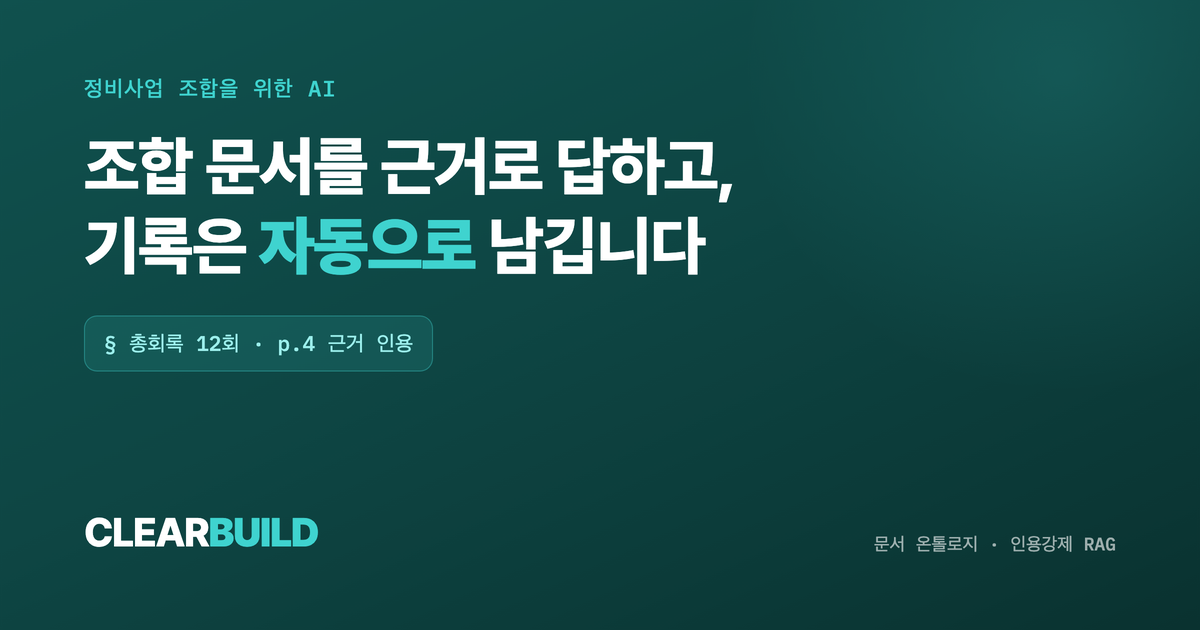
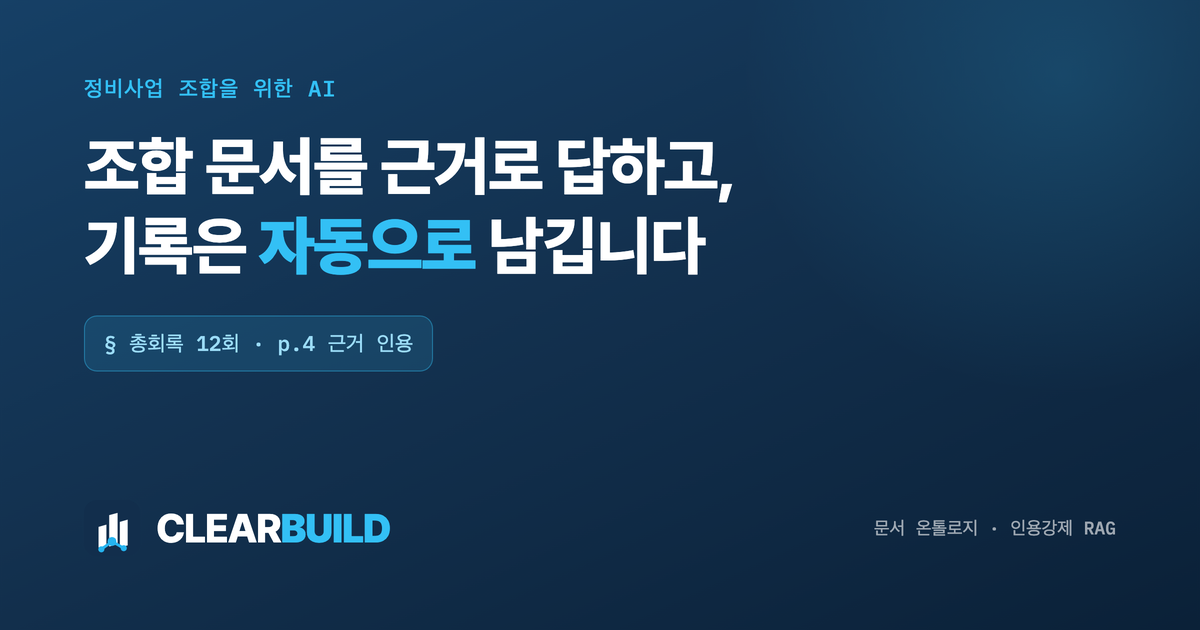
fix: Fable UI 리뷰 반영 — 틸 잔재 제거 + 로고 마크 + og-image 재생성
- og-image 네이비+시안+새 빌딩마크로 재생성(구 틸 브랜드 폐기·공유링크 노출 해소)
- 틸 잔재: rgba(63,211,207)→시안 · 파란버튼 초록그림자→블루 · 다크버튼 글자 #062522→네이비 · apply aside 틸→네이비
- 로고 마크: 크기 1.15→1.4em · 다크패널 고스트타일 · 다크테마 대응

diff --git a/index.html b/index.html
@@ -72,7 +72,7 @@
   .btn-lg{font-family:inherit; font-size:16px; font-weight:700; border-radius:var(--r-md); padding:15px 28px; white-space:nowrap; transition:.16s ease; cursor:pointer; border:1px solid transparent}
   .btn-solid{background:var(--teal); color:#fff}
   .btn-solid:hover{background:var(--teal-deep); transform:translateY(-1px)}
-  :root[data-theme="dark"] .btn-solid,:root:not([data-theme="light"]) .btn-solid{color:#062522}
+  :root[data-theme="dark"] .btn-solid,:root:not([data-theme="light"]) .btn-solid{color:#0B2138}
   .btn-white{background:#fff; color:var(--d-b)}
   .btn-white:hover{transform:translateY(-1px)}
   .btn-ghost-d{color:#fff; border:1px solid var(--d-line)}
@@ -104,7 +104,7 @@
   .pnav .r{margin-left:auto; display:flex; gap:12px; align-items:center}
   .hcopy{position:relative; max-width:820px; margin:60px auto 0; text-align:center}
   .hbadge{display:inline-block; font-family:'IBM Plex Mono',monospace; font-size:12px; letter-spacing:.06em; text-transform:uppercase;
-    color:var(--d-accent); border:1px solid rgba(63,211,207,.4); border-radius:999px; padding:7px 16px}
+    color:var(--d-accent); border:1px solid rgba(51,192,245,.4); border-radius:999px; padding:7px 16px}
   h1{margin:24px 0 0; font-size:clamp(30px,8.5vw,62px); line-height:1.16; letter-spacing:-.025em; font-weight:800; color:#fff; text-wrap:balance}
   h1 span{color:var(--d-accent)}
   .hsub{margin:22px auto 0; max-width:33em; font-size:18px; line-height:1.62; color:var(--d-mut)}
@@ -129,7 +129,7 @@
   .thread{display:flex; flex-direction:column; gap:14px}
   .msg{max-width:86%; font-size:15px; line-height:1.55; padding:12px 16px; border-radius:var(--r-md)}
   .msg.q{align-self:flex-end; background:var(--teal); color:#fff; font-weight:500; border-bottom-right-radius:4px}
-  :root[data-theme="dark"] .msg.q,:root:not([data-theme="light"]) .msg.q{color:#062522}
+  :root[data-theme="dark"] .msg.q,:root:not([data-theme="light"]) .msg.q{color:#0B2138}
   .msg.a{align-self:flex-start; background:var(--surface-2); border:1px solid var(--line); border-bottom-left-radius:4px}
   .msg.a .who{display:block; font-family:'IBM Plex Mono',monospace; font-size:11px; color:var(--teal-deep); margin-bottom:6px; letter-spacing:.04em}
   .cites{display:flex; flex-wrap:wrap; gap:8px; margin-top:12px; padding-top:12px; border-top:1px dashed var(--line2)}
@@ -179,7 +179,7 @@
   .imsg.q{align-self:flex-end; margin-left:auto; width:fit-content; background:var(--d-accent); color:var(--d-b); font-weight:600; border-bottom-right-radius:4px}
   .imsg.a{background:rgba(255,255,255,.07); border:1px solid var(--d-line); margin-top:11px; border-bottom-left-radius:4px}
   .imsg.a .who{display:block; font-family:'IBM Plex Mono',monospace; font-size:11px; color:var(--d-accent); margin-bottom:5px}
-  .icite{font-family:'IBM Plex Mono',monospace; font-size:11px; color:var(--d-accent); background:rgba(63,211,207,.12); border-radius:var(--r-xs); padding:3px 8px; margin-top:10px; display:inline-block}
+  .icite{font-family:'IBM Plex Mono',monospace; font-size:11px; color:var(--d-accent); background:rgba(51,192,245,.12); border-radius:var(--r-xs); padding:3px 8px; margin-top:10px; display:inline-block}
   .exec .row{display:flex; align-items:center; gap:12px; padding:13px 0; border-bottom:1px solid var(--d-line)}
   .exec .row:last-child{border-bottom:none}
   .exec .k{font-size:14px; color:var(--d-mut)}
@@ -371,7 +371,7 @@
   .cr-chat{display:flex; flex-direction:column; gap:6px; height:86px; justify-content:center}
   .cr-chat .bub{max-width:80%; font-size:11px; line-height:1.4; padding:6px 9px; border-radius:11px; font-weight:500}
   .cr-chat .me{align-self:flex-end; background:var(--teal); color:#fff; border-bottom-right-radius:3px}
-  :root[data-theme="dark"] .cr-chat .me,:root:not([data-theme="light"]) .cr-chat .me{color:#062522}
+  :root[data-theme="dark"] .cr-chat .me,:root:not([data-theme="light"]) .cr-chat .me{color:#0B2138}
   .cr-chat .ai{align-self:flex-start; background:var(--surface); border:1px solid var(--line); color:var(--soft); border-bottom-left-radius:3px}
   .cr-chat .cchip{display:inline-flex; align-items:center; gap:3px; margin-top:5px; font-family:'IBM Plex Mono',monospace; font-size:8.5px; color:var(--teal-deep); background:var(--teal-soft); border-radius:5px; padding:2px 5px; font-weight:600}
   /* 3. 기록·증적 */
@@ -415,8 +415,10 @@
   @keyframes fadein{from{opacity:0}to{opacity:1}}
   @keyframes popPeek{0%{opacity:0; visibility:hidden; transform:translateY(4px)}14%,55%{opacity:1; visibility:visible; transform:none}72%,100%{opacity:0; visibility:hidden; transform:translateY(4px)}}
   .logo,.brand{display:inline-flex; align-items:center; gap:9px}
-  .lm{flex:none; width:1.15em; height:1.15em}
+  .lm{flex:none; width:1.4em; height:1.4em}
   .lm-bg{fill:#122E4C}
+  .pnav .lm-bg,.brand .lm-bg{fill:rgba(255,255,255,.15)}
+  :root[data-theme="dark"] .lm-bg,:root:not([data-theme="light"]) .lm-bg{fill:#1B3E63}
 </style>
 </head>
 <body>

diff --git a/apply.html b/apply.html
@@ -34,7 +34,7 @@
     --shadow:0 1px 2px rgba(0,0,0,.4);
   }}
   :root[data-theme="dark"]{
-    --bg:#0C121A; --surface:#141C26; --surface-2:#1C2634; --ink:#EAF0F7; --soft:#C0CAD6; --muted:#8792A3; --faint:#5E6B65;
+    --bg:#0C121A; --surface:#141C26; --surface-2:#1C2634; --ink:#EAF0F7; --soft:#C0CAD6; --muted:#8792A3; --faint:#5D6A7A;
     --teal:#25B4F0; --teal-deep:#6FBEF2; --teal-soft:rgba(37,180,240,.13); --line:rgba(234,240,247,.12); --line2:rgba(234,240,247,.2); --err:#E0865A;
     --shadow:0 2px 4px rgba(0,0,0,.3), 0 30px 60px -34px rgba(0,0,0,.72);
   }
@@ -50,9 +50,9 @@
 
   /* left reassurance panel (deep teal) */
   .aside{position:relative; overflow:hidden; padding:40px 36px; color:var(--d-ink);
-    background:radial-gradient(120% 130% at 80% -10%, #15706D 0%, var(--d-a) 46%, var(--d-b) 100%)}
+    background:radial-gradient(120% 130% at 80% -10%, #13314F 0%, var(--d-a) 46%, var(--d-b) 100%)}
   .aside::before{content:""; position:absolute; top:-120px; right:-100px; width:420px; height:420px; border-radius:50%;
-    background:radial-gradient(circle, rgba(63,211,207,.14), transparent 62%)}
+    background:radial-gradient(circle, rgba(51,192,245,.14), transparent 62%)}
   .brand{position:relative; font-weight:800; font-size:20px; letter-spacing:-.03em; color:#fff}
   .brand b{color:var(--d-accent)}
   .aside h1{position:relative; font-size:26px; font-weight:800; letter-spacing:-.03em; line-height:1.28; margin:26px 0 0; color:#fff; text-wrap:balance}
@@ -88,8 +88,8 @@
   .field.invalid input{border-color:var(--err)}
   .field.invalid .err-msg{display:block}
   .submit{margin-top:6px; font-family:inherit; font-size:16px; font-weight:700; color:#fff; background:var(--teal); border:none; border-radius:var(--r);
-    padding:15px; cursor:pointer; transition:.16s; box-shadow:0 14px 30px -14px rgba(20,128,127,.6)}
-  :root[data-theme="dark"] .submit,:root:not([data-theme="light"]) .submit{color:#062522}
+    padding:15px; cursor:pointer; transition:.16s; box-shadow:0 14px 30px -14px rgba(23,102,181,.6)}
+  :root[data-theme="dark"] .submit,:root:not([data-theme="light"]) .submit{color:#0B2138}
   .submit:hover{background:var(--teal-deep); transform:translateY(-1px)}
   .privacy{font-size:12px; color:var(--muted); line-height:1.5; margin:2px 0 0}
 
@@ -114,8 +114,10 @@
   .home-link{display:inline-block; margin-top:22px; font-size:14px; font-weight:600; color:var(--teal-deep)}
   @media(prefers-reduced-motion:reduce){*,*::before,*::after{animation-duration:.001ms!important; transition-duration:.001ms!important} html{scroll-behavior:auto}}
   .logo,.brand{display:inline-flex; align-items:center; gap:9px}
-  .lm{flex:none; width:1.15em; height:1.15em}
+  .lm{flex:none; width:1.4em; height:1.4em}
   .lm-bg{fill:#122E4C}
+  .pnav .lm-bg,.brand .lm-bg{fill:rgba(255,255,255,.15)}
+  :root[data-theme="dark"] .lm-bg,:root:not([data-theme="light"]) .lm-bg{fill:#1B3E63}
 </style>
 </head>
 <body>

diff --git a/team.html b/team.html
@@ -53,7 +53,7 @@
   .nav-in .sp{margin-left:auto; display:flex; align-items:center; gap:18px}
   .nav-in .bk{font-size:14px; font-weight:500; color:var(--muted)} .nav-in .bk:hover{color:var(--ink)}
   .btn{font-size:14px; font-weight:700; border-radius:10px; padding:10px 16px; background:var(--teal); color:#fff; transition:.16s}
-  :root[data-theme="dark"] .btn,:root:not([data-theme="light"]) .btn{color:#062522}
+  :root[data-theme="dark"] .btn,:root:not([data-theme="light"]) .btn{color:#0B2138}
   .btn:hover{background:var(--teal-deep); transform:translateY(-1px)}
 
   header{padding:80px 0 44px; text-align:center}
@@ -83,8 +83,8 @@
   .cta{padding:72px 0 40px; text-align:center}
   .cta h2{font-size:clamp(24px,3vw,32px); font-weight:800; letter-spacing:-.02em; margin:0}
   .cta p{color:var(--muted); font-size:15.5px; margin:14px auto 26px; max-width:30em}
-  .cta .big{display:inline-block; font-size:16px; font-weight:700; color:#fff; background:var(--teal); border-radius:12px; padding:15px 28px; box-shadow:0 16px 34px -14px rgba(20,128,127,.6); transition:.16s}
-  :root[data-theme="dark"] .cta .big,:root:not([data-theme="light"]) .cta .big{color:#062522}
+  .cta .big{display:inline-block; font-size:16px; font-weight:700; color:#fff; background:var(--teal); border-radius:12px; padding:15px 28px; box-shadow:0 16px 34px -14px rgba(23,102,181,.6); transition:.16s}
+  :root[data-theme="dark"] .cta .big,:root:not([data-theme="light"]) .cta .big{color:#0B2138}
   .cta .big:hover{background:var(--teal-deep); transform:translateY(-1px)}
 
   footer{border-top:1px solid var(--line); padding:30px 0}
@@ -103,8 +103,10 @@
   .mlink svg{flex:none}
   .mlink:hover{color:var(--teal)}
   .logo,.brand{display:inline-flex; align-items:center; gap:9px}
-  .lm{flex:none; width:1.15em; height:1.15em}
+  .lm{flex:none; width:1.4em; height:1.4em}
   .lm-bg{fill:#122E4C}
+  .pnav .lm-bg,.brand .lm-bg{fill:rgba(255,255,255,.15)}
+  :root[data-theme="dark"] .lm-bg,:root:not([data-theme="light"]) .lm-bg{fill:#1B3E63}
 </style>
 </head>
 <body>
